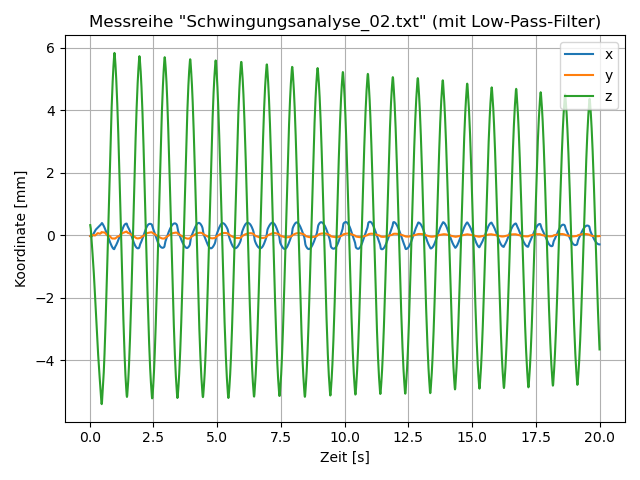
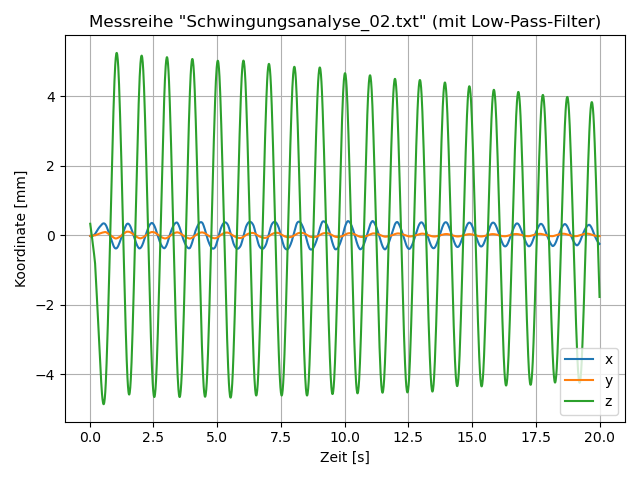
Updated graphs

diff --git a/übung4/schwingungsanalyse_main.py b/übung4/schwingungsanalyse_main.py
@@ -36,7 +36,7 @@ from scipy import signal
 
 verbose = True  # Shows more debugging information
 fix_steigung = False  # Disregards permanent sensor changes
-show_graphs = False  # If disabled, the Plots will not be shown.
+show_graphs = True  # If disabled, the Plots will not be shown.
 
 
 # Functions
@@ -139,7 +139,7 @@ def run_analysis(input_file):
         plot_xyzt(datenreihen_ohne_trend, datenreihen[0], f'Messreihe "{input_file}" (ohne Trend)')
 
     # Low-Pass-Filterung der Sensorreihen
-    low_pass_strength = 3
+    low_pass_strength = 20
     datenreihen_low_pass = []
     for i, e in enumerate(datenreihen_ohne_trend):
         if(verbose):
